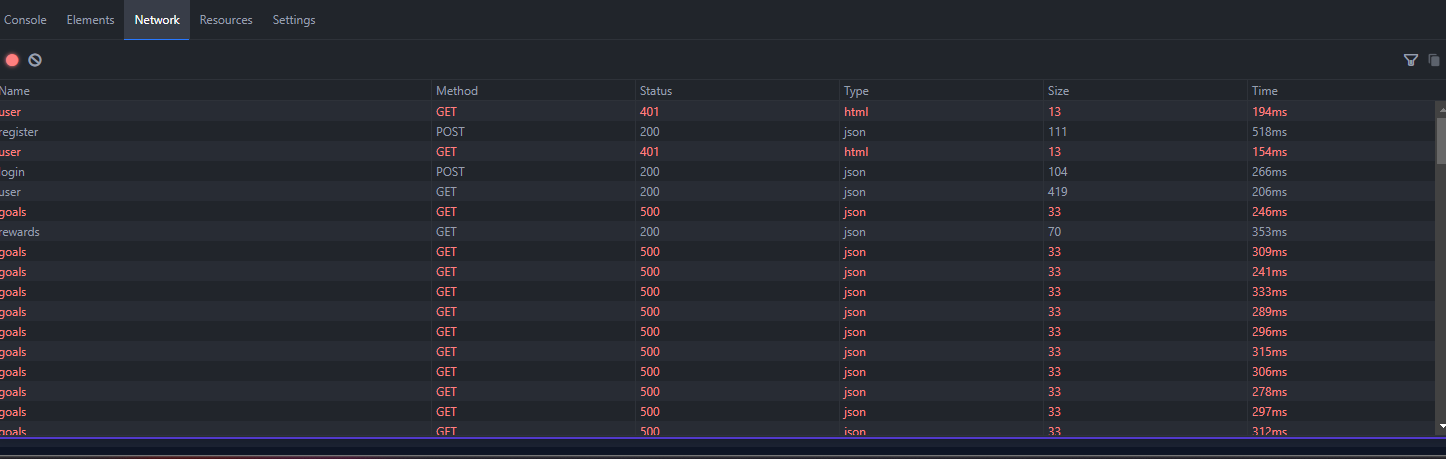
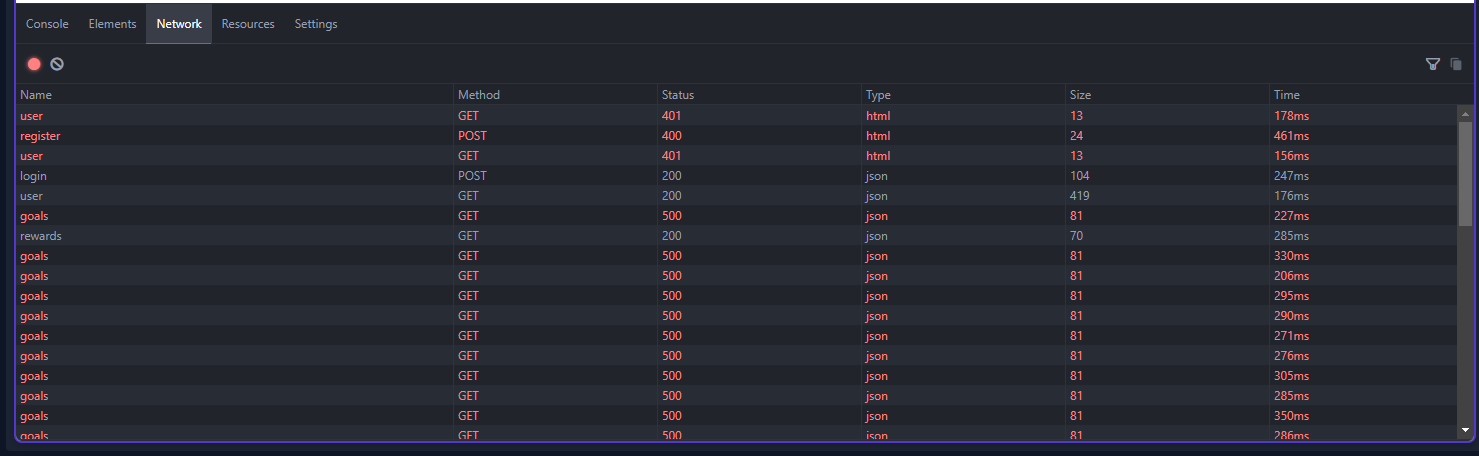
Agent query: Can you try registering a new account and logging in? The infinite loop should be fixed now.
Refactor database schema: update column names for consistency and add new reward_items table.

Screenshot: https://storage.googleapis.com/screenshot-production-us-central1/5cbcd047-3b39-438f-8057-f5204b920970/74fdf893-22c0-443c-9a04-5d1f814aa5e0.jpg

diff --git a/db/schema.ts b/db/schema.ts
@@ -18,7 +18,7 @@ export const users = pgTable("users", {
 
 export const goals = pgTable("goals", {
   id: serial("id").primaryKey(),
-  userId: integer("user_id").notNull().references(() => users.id),
+  userId: integer("userId").notNull().references(() => users.id),
   title: text("title").notNull(),
   description: text("description"),
   targetDate: timestamp("target_date").notNull(),
@@ -40,7 +40,7 @@ export const tasks = pgTable("tasks", {
 
 export const rewards = pgTable("rewards", {
   id: serial("id").primaryKey(),
-  userId: integer("user_id").notNull().references(() => users.id),
+  userId: integer("userId").notNull().references(() => users.id),
   coins: integer("coins").default(0).notNull(),
   lastUpdated: timestamp("last_updated").defaultNow().notNull(),
 });
